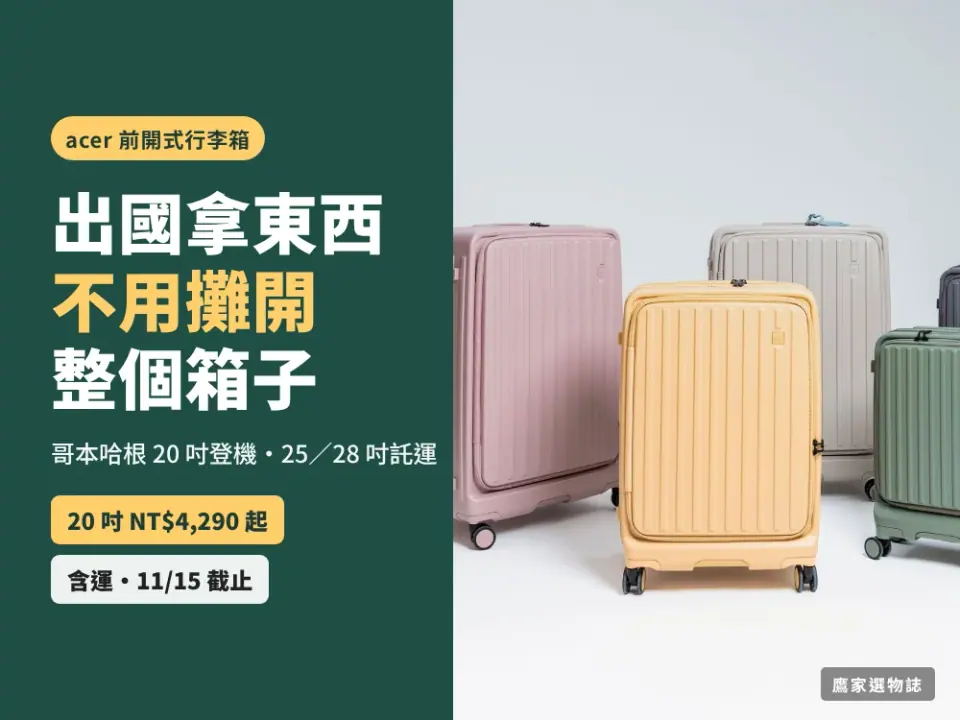
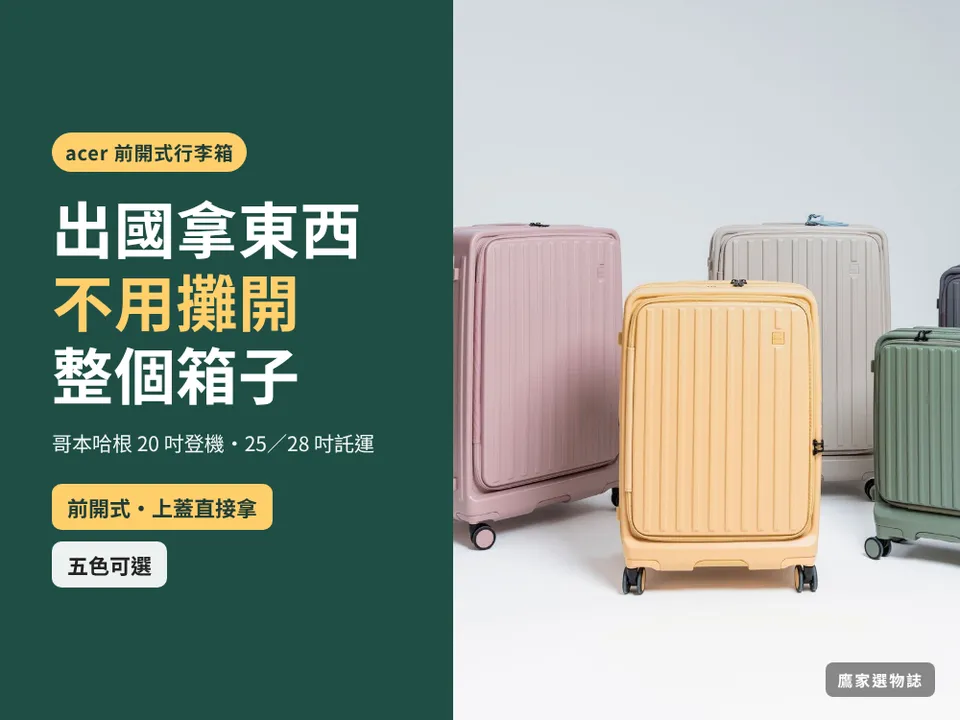
grace: GB-061 acer 封面拿掉已結團價格與截止徽章，重出 cover／product-card／share
Claude-Session: https://claude.ai/code/session_01VMXN9TMQs8VKqA29BYD8cw

Changed region(s): [[0.0312, 0.1528, 0.4688, 0.8556], [0.8438, 0.9167, 0.9688, 0.9778]]

diff --git a/assets/acer-luggage/cover-source.html b/assets/acer-luggage/cover-source.html
@@ -12,4 +12,4 @@
 .badges{display:flex;flex-wrap:wrap;gap:16px;margin-top:40px}
 .badge{font-size:36px;font-weight:800;padding:12px 26px;border-radius:14px;background:#ffcf6b;color:#1f3b35}
 .badge.alt{background:rgba(255,255,255,.92);color:#222}
-.logo{position:absolute;right:40px;bottom:30px;font-size:26px;font-weight:700;letter-spacing:.12em;color:#fff;background:rgba(0,0,0,.45);padding:8px 18px;border-radius:8px}</style><div class="stage"><div class="panel"></div><img class="side" src="acer-five-colors.jpg" alt="acer 哥本哈根前開式行李箱五色" style="object-position:40% center;object-fit:cover;background:transparent"><div class="text"><h1 style="margin:0;font:inherit"><span class="brand">acer 前開式行李箱</span><span class="title">出國拿東西<br><em>不用攤開</em><br>整個箱子</span></h1><p class="sub">哥本哈根 20 吋登機・25／28 吋託運</p><div class="badges"><span class="badge">20 吋 NT$4,290 起</span><span class="badge alt">含運・11/15 截止</span></div></div><p class="logo">鷹家選物誌</p></div></html>
+.logo{position:absolute;right:40px;bottom:30px;font-size:26px;font-weight:700;letter-spacing:.12em;color:#fff;background:rgba(0,0,0,.45);padding:8px 18px;border-radius:8px}</style><div class="stage"><div class="panel"></div><img class="side" src="acer-five-colors.jpg" alt="acer 哥本哈根前開式行李箱五色" style="object-position:40% center;object-fit:cover;background:transparent"><div class="text"><h1 style="margin:0;font:inherit"><span class="brand">acer 前開式行李箱</span><span class="title">出國拿東西<br><em>不用攤開</em><br>整個箱子</span></h1><p class="sub">哥本哈根 20 吋登機・25／28 吋託運</p><div class="badges"><span class="badge">前開式・上蓋直接拿</span><span class="badge alt">五色可選</span></div></div><p class="logo">鷹家選物誌</p></div></html>
